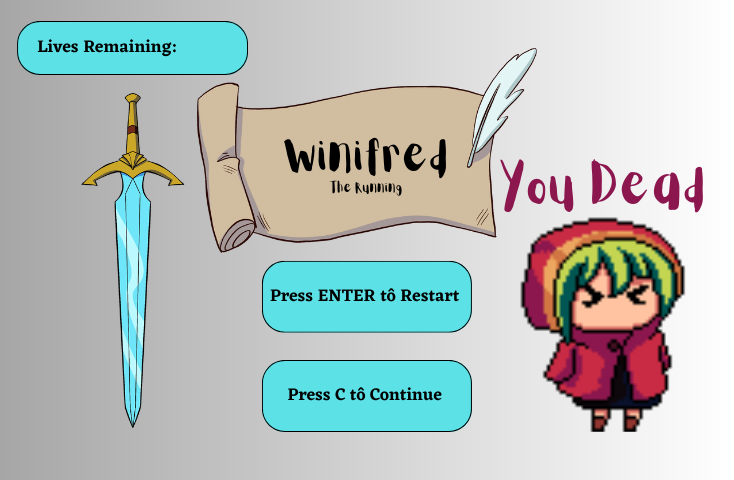
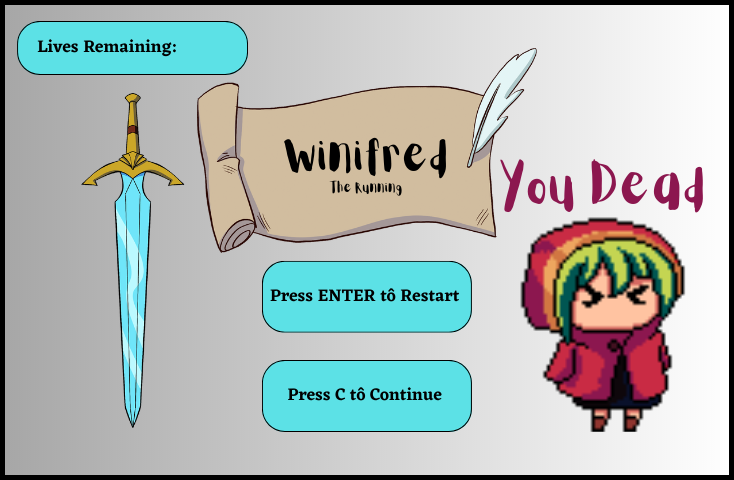
add telas de menu

Changed region(s): [[0.0, 0.0, 1.0, 1.0]]

diff --git a/dino_runner/components/pause_menu.py b/dino_runner/components/pause_menu.py
@@ -1,6 +1,10 @@
 import pygame
 
-from dino_runner.utils.constants import MENU_PAUSE, SCREEN_HEIGHT, SCREEN_WIDTH
+from dino_runner.utils.constants import (MENU_INICIO, MENU_PAUSE,
+                                         MENU_PAUSE_DEAD, MENU_PAUSE_DEAD_0,
+                                         SCREEN_HEIGHT, SCREEN_WIDTH)
+
+FONT_STYLE = "freesansbold.ttf"
 
 
 class Pause:
@@ -9,11 +13,11 @@ class Pause:
         self.show_menu = False
         self.image = MENU_PAUSE
         self.image_rect = self.image.get_rect()
-       # self.image_rect.x = 0
-        # self.image_rect.y = 0
+        # FONT
+        FONT_STYLE = "freesansbold.ttf"
+        self.font = pygame.font.Font(FONT_STYLE, 22)
 
     def update(self, user_input, game):
-
         if user_input[pygame.K_p]:
             self.show_menu = True
             game.playing = False
@@ -23,24 +27,94 @@ class Pause:
                 self.show_menu = False
 
     def draw(self, screen, game):
-        if self.show_menu:
 
+        if self.show_menu:
             half_screen_height = SCREEN_HEIGHT // 2
             half_screen_width = SCREEN_WIDTH // 2
-
+            self.image = MENU_PAUSE
             self.image_rect.center = (half_screen_width, half_screen_height)
             self.screen.blit(
                 self.image, self.image_rect)
 
-            FONT_STYLE = "freesansbold.ttf"
-            font = pygame.font.Font(FONT_STYLE, 22)
-            text = font.render(
-                f" {game.death_count}", True, (0, 0, 0))
+            text = self.font.render(
+                f" {game.player.life_person}", True, (0, 0, 0))
             text_rect = text.get_rect()
             text_rect.center = (half_screen_width - 178,
                                 half_screen_height - 192)
             self.screen.blit(text, text_rect)
 
-            game.death_count = game.player.life_person
             pygame.display.flip()
             game.handle_events_on_menu()
+
+    def show_menu_1(self, game):
+        half_screen_height = SCREEN_HEIGHT // 2
+        half_screen_width = SCREEN_WIDTH // 2
+        self.image_rect.center = (half_screen_width, half_screen_height)
+        if game.player.life_person == 3:
+            self.image = MENU_INICIO
+            self.screen.blit(
+                self.image, (-10, -15))
+
+        elif game.player.life_person == 0:
+            self.image = MENU_PAUSE_DEAD_0
+            self.image_rect.center = (
+                half_screen_width, half_screen_height)
+            self.screen.blit(
+                self.image, self.image_rect)
+            text = self.font.render(
+                f" {game.player.life_person}", True, (0, 0, 0))
+            text_rect = text.get_rect()
+            text_rect.center = (half_screen_width - 178,
+                                half_screen_height - 192)
+            self.screen.blit(text, text_rect)
+
+        elif game.player.life_person < 3:
+            self.image = MENU_PAUSE_DEAD
+            self.image_rect.center = (
+                half_screen_width, half_screen_height)
+            self.screen.blit(
+                self.image, self.image_rect)
+
+            text = self.font.render(
+                f" {game.player.life_person}", True, (0, 0, 0))
+            text_rect = text.get_rect()
+            text_rect.center = (half_screen_width - 178,
+                                half_screen_height - 192)
+            self.screen.blit(text, text_rect)
+
+        pygame.display.flip()
+
+        game.handle_events_on_menu()
+
+
+'''
+def show_menu_1(self, game):
+        game.screen.fill((255, 255, 255))
+
+        half_screen_height = SCREEN_HEIGHT // 2
+        half_screen_width = SCREEN_WIDTH // 2
+
+        FONT_STYLE = "freesansbold.ttf"
+        font = pygame.font.Font(FONT_STYLE, 22)
+        text = font.render("Press ENTER to start", True, (0, 0, 0))
+
+        text_rect = text.get_rect()
+        text_rect.center = (half_screen_width, half_screen_height)
+        game.screen.blit(text, text_rect)
+
+        if game.player.life_person > 0:
+            text = font.render(
+                "Press C to continue", True, (0, 0, 0))
+            text_rect.center = (half_screen_width, half_screen_height + 100)
+            game.screen.blit(text, text_rect)
+
+        game.death_count = game.player.life_person
+        text = font.render(
+            f"Remaining Lives: {game.death_count}", True, (0, 0, 0))
+        text_rect.center = (150, 100)
+        game.screen.blit(text, text_rect)
+
+        pygame.display.flip()
+
+        game.handle_events_on_menu()
+    '''

diff --git a/dino_runner/components/game.py b/dino_runner/components/game.py
@@ -35,7 +35,7 @@ class Game:
         self.reset = True
         self.pause = False
 
-        self.death_count = self.player.life_person
+        self.player_life_person = self.player.life_person
 
     def execute(self):
         self.executing = True
@@ -45,7 +45,7 @@ class Game:
                 self.handle_events_on_menu()
 
             elif not self.playing:
-                self.show_menu()
+                self.pause_menu.show_menu_1(self)
 
         pygame.display.quit()
         pygame.quit()
@@ -140,36 +140,6 @@ class Game:
                     self.player.has_power_up = False
                     self.player.type = DEFAULT_TYPE
 
-    def show_menu(self):
-        self.screen.fill((255, 255, 255))
-
-        half_screen_height = SCREEN_HEIGHT // 2
-        half_screen_width = SCREEN_WIDTH // 2
-
-        FONT_STYLE = "freesansbold.ttf"
-        font = pygame.font.Font(FONT_STYLE, 22)
-        text = font.render("Press ENTER to start", True, (0, 0, 0))
-
-        text_rect = text.get_rect()
-        text_rect.center = (half_screen_width, half_screen_height)
-        self.screen.blit(text, text_rect)
-
-        if self.player.life_person > 0:
-            text = font.render(
-                "Press C to continue", True, (0, 0, 0))
-            text_rect.center = (half_screen_width, half_screen_height + 100)
-            self.screen.blit(text, text_rect)
-
-        self.death_count = self.player.life_person
-        text = font.render(
-            f"Remaining Lives: {self.death_count}", True, (0, 0, 0))
-        text_rect.center = (150, 100)
-        self.screen.blit(text, text_rect)
-
-        pygame.display.flip()
-
-        self.handle_events_on_menu()
-
     def handle_events_on_menu(self):
         for event in pygame.event.get():
             if event.type == pygame.QUIT:
@@ -178,10 +148,11 @@ class Game:
 
             elif event.type == pygame.KEYDOWN:
                 if event.key == pygame.K_c:
-                    if self.player.life_person > 0:
-                        self.reset = False
-                        self.pause = False
-                        self.run()
+                    if self.pause_menu.show_menu or not self.player.life_person == 3:
+                        if self.player.life_person > 0:
+                            self.reset = False
+                            self.pause = False
+                            self.run()
 
                 if event.key == pygame.K_KP_ENTER:
                     self.reset = True

diff --git a/dino_runner/utils/constants.py b/dino_runner/utils/constants.py
@@ -112,24 +112,10 @@ JUMPING_LEFT = [
         IMG_DIR, "Dino/Jumper/Jumper_left/JumpF_8.png")),
 ]
 
-JUMPING_SHIELD = pygame.image.load(
-    os.path.join(IMG_DIR, "Dino/DinoJumpShield.png"))
-JUMPING_HAMMER = pygame.image.load(
-    os.path.join(IMG_DIR, "Dino/DinoJumpHammer.png"))
 
 DUCKING = [
     pygame.image.load(os.path.join(IMG_DIR, "Dino/Ducking/Duck.png")),
     pygame.image.load(os.path.join(IMG_DIR, "Dino/Ducking/Duck.png")),
-]
-
-DUCKING_SHIELD = [
-    pygame.image.load(os.path.join(IMG_DIR, "Dino/DinoDuck1Shield.png")),
-    pygame.image.load(os.path.join(IMG_DIR, "Dino/DinoDuck2.png")),
-]
-
-DUCKING_HAMMER = [
-    pygame.image.load(os.path.join(IMG_DIR, "Dino/DinoDuck1Hammer.png")),
-    pygame.image.load(os.path.join(IMG_DIR, "Dino/DinoDuck2.png")),
 ]
 
 
@@ -199,7 +185,7 @@ SHIELD = pygame.image.load(os.path.join(
 ICON_SHIELD = [pygame.image.load(os.path.join(
     IMG_DIR, 'Other/power_up_img/shield.png')),
     pygame.image.load(os.path.join(
-        IMG_DIR, 'Other/power_up_img/no_shield.png')),
+        IMG_DIR, 'Other/power_up_img/shield.png')),
 ]
 
 ICON_LIFE_UP = pygame.image.load(os.path.join(
@@ -236,9 +222,18 @@ DEAD_PERSON = [pygame.image.load(os.path.join(IMG_DIR, 'Dino/Dead/dead_1.png')),
 
                ]
 
+MENU_INICIO = pygame.image.load(os.path.join(
+    IMG_DIR, 'Other/menu/2.png'))
 
 MENU_PAUSE = pygame.image.load(os.path.join(
-    IMG_DIR, 'Other/menu/menu_pause.png'))
+    IMG_DIR, 'Other/menu/menu_pause_1.png'))
+
+
+MENU_PAUSE_DEAD = pygame.image.load(os.path.join(
+    IMG_DIR, 'Other/menu/menu_dead.png'))
+
+MENU_PAUSE_DEAD_0 = pygame.image.load(os.path.join(
+    IMG_DIR, 'Other/menu/menu_dead_0.png'))
 
 DEFAULT_TYPE = "default"
 LIFE_TYPE = "life"

diff --git a/dino_runner/components/flying_obstacle/mosquito.py b/dino_runner/components/flying_obstacle/mosquito.py
@@ -53,7 +53,6 @@ class Mosquito_per:
             if not game.player.has_power_up or not game.player.type == "default":
                 if self.last_collision_resolved:
                     self.collisions += 1
-                    print(self.collisions)
                     game.player.person_life.cont += 1
                     self.last_collision_resolved = False
 
@@ -66,18 +65,6 @@ class Mosquito_per:
         else:
             self.last_collision_resolved = True
 
-        '''if game.player.person_rect.colliderect(self.mosquito_rect):
-
-            if game.player.person_attack == True:
-
-                print('top')
-
-            else:
-                pass
-                # game.life.cont += 1
-                # pygame.time.delay(10)
-                # game.playing = False
-'''
         if self.steps_count > 5:
             self.steps_count = 0
 

diff --git a/dino_runner/components/obstacles/obstacle_manager.py b/dino_runner/components/obstacles/obstacle_manager.py
@@ -31,7 +31,6 @@ class ObstacleManager:
                 if not game.player.has_power_up or not game.player.type == "default":
                     if self.last_collision_resolved:
                         self.collisions += 1
-                        print(self.collisions)
                         game.player.person_life.cont += 1
                         self.last_collision_resolved = False
                 else:

diff --git a/dino_runner/components/person.py b/dino_runner/components/person.py
@@ -52,7 +52,6 @@ class Person:
 
         # ICONS
         self.icons.update(game)
-
         ################ LIFE ######
         self.person_life.damage_life(game)
 
@@ -216,6 +215,7 @@ class Person:
             self.dead_person = False
             self.person_rect.x = 0
             self.life_person -= 1
+            print(self.life_person)
             game.playing = False
 
     def draw(self, screen):
